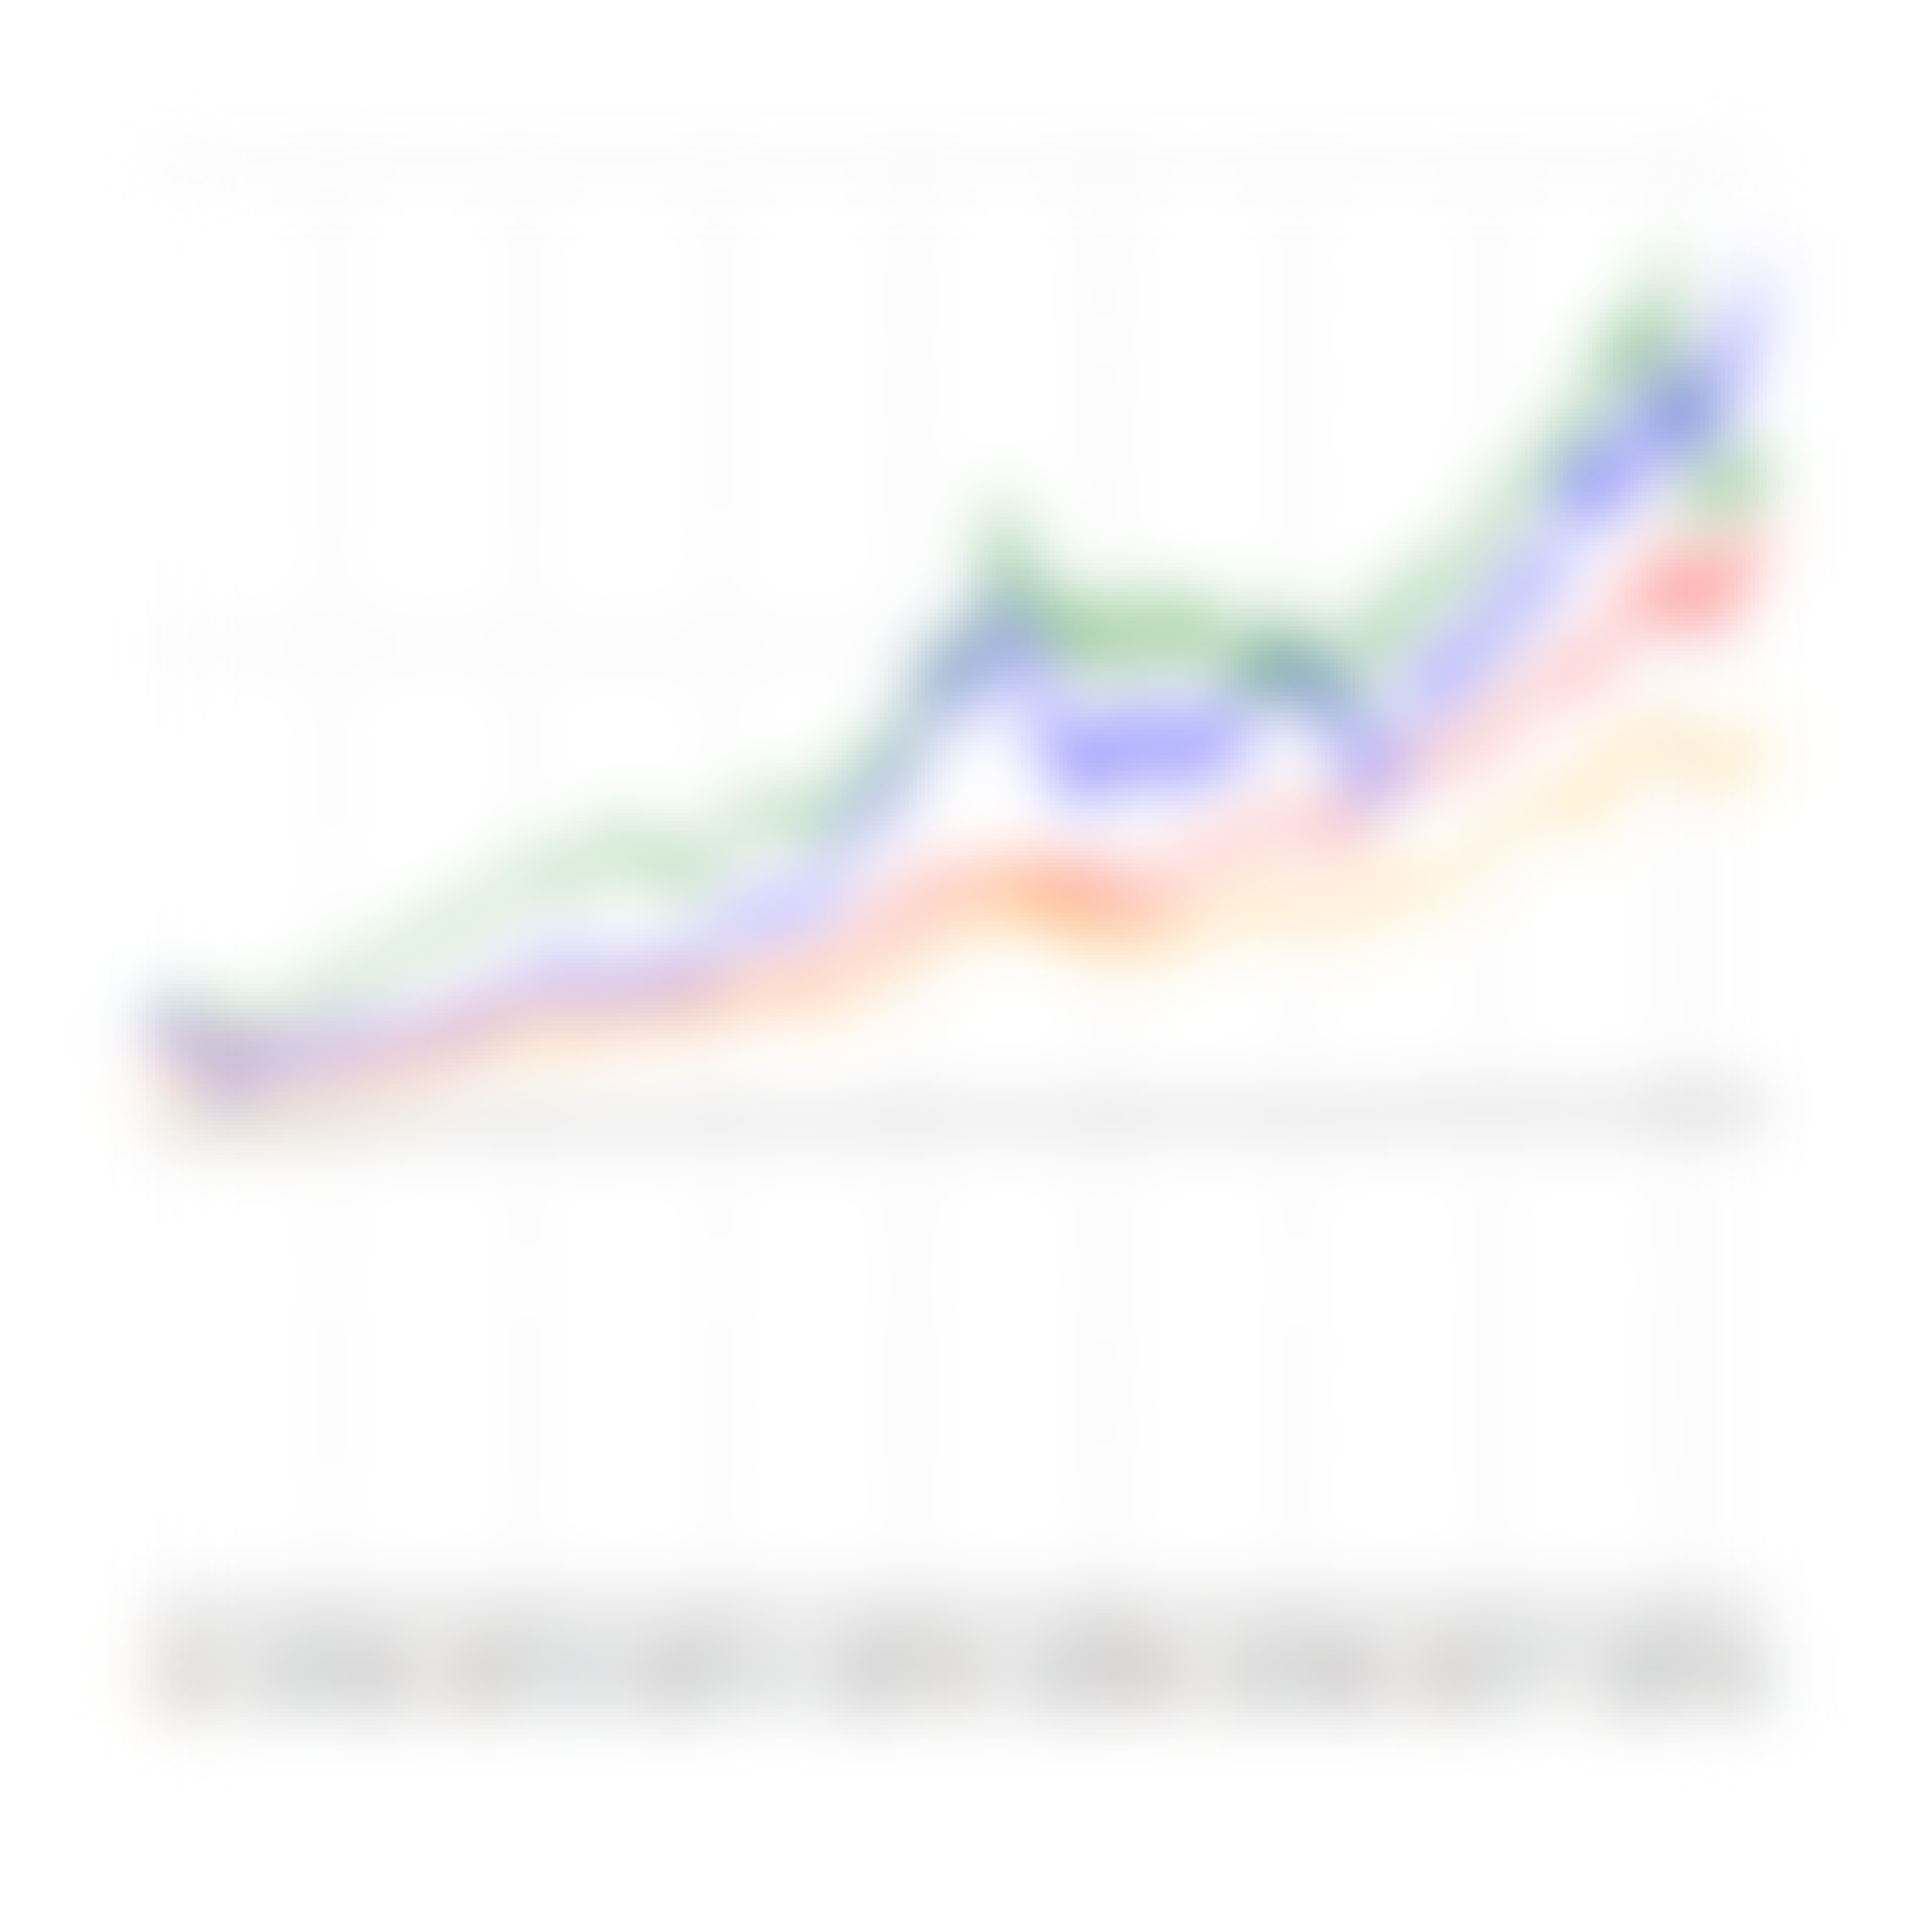
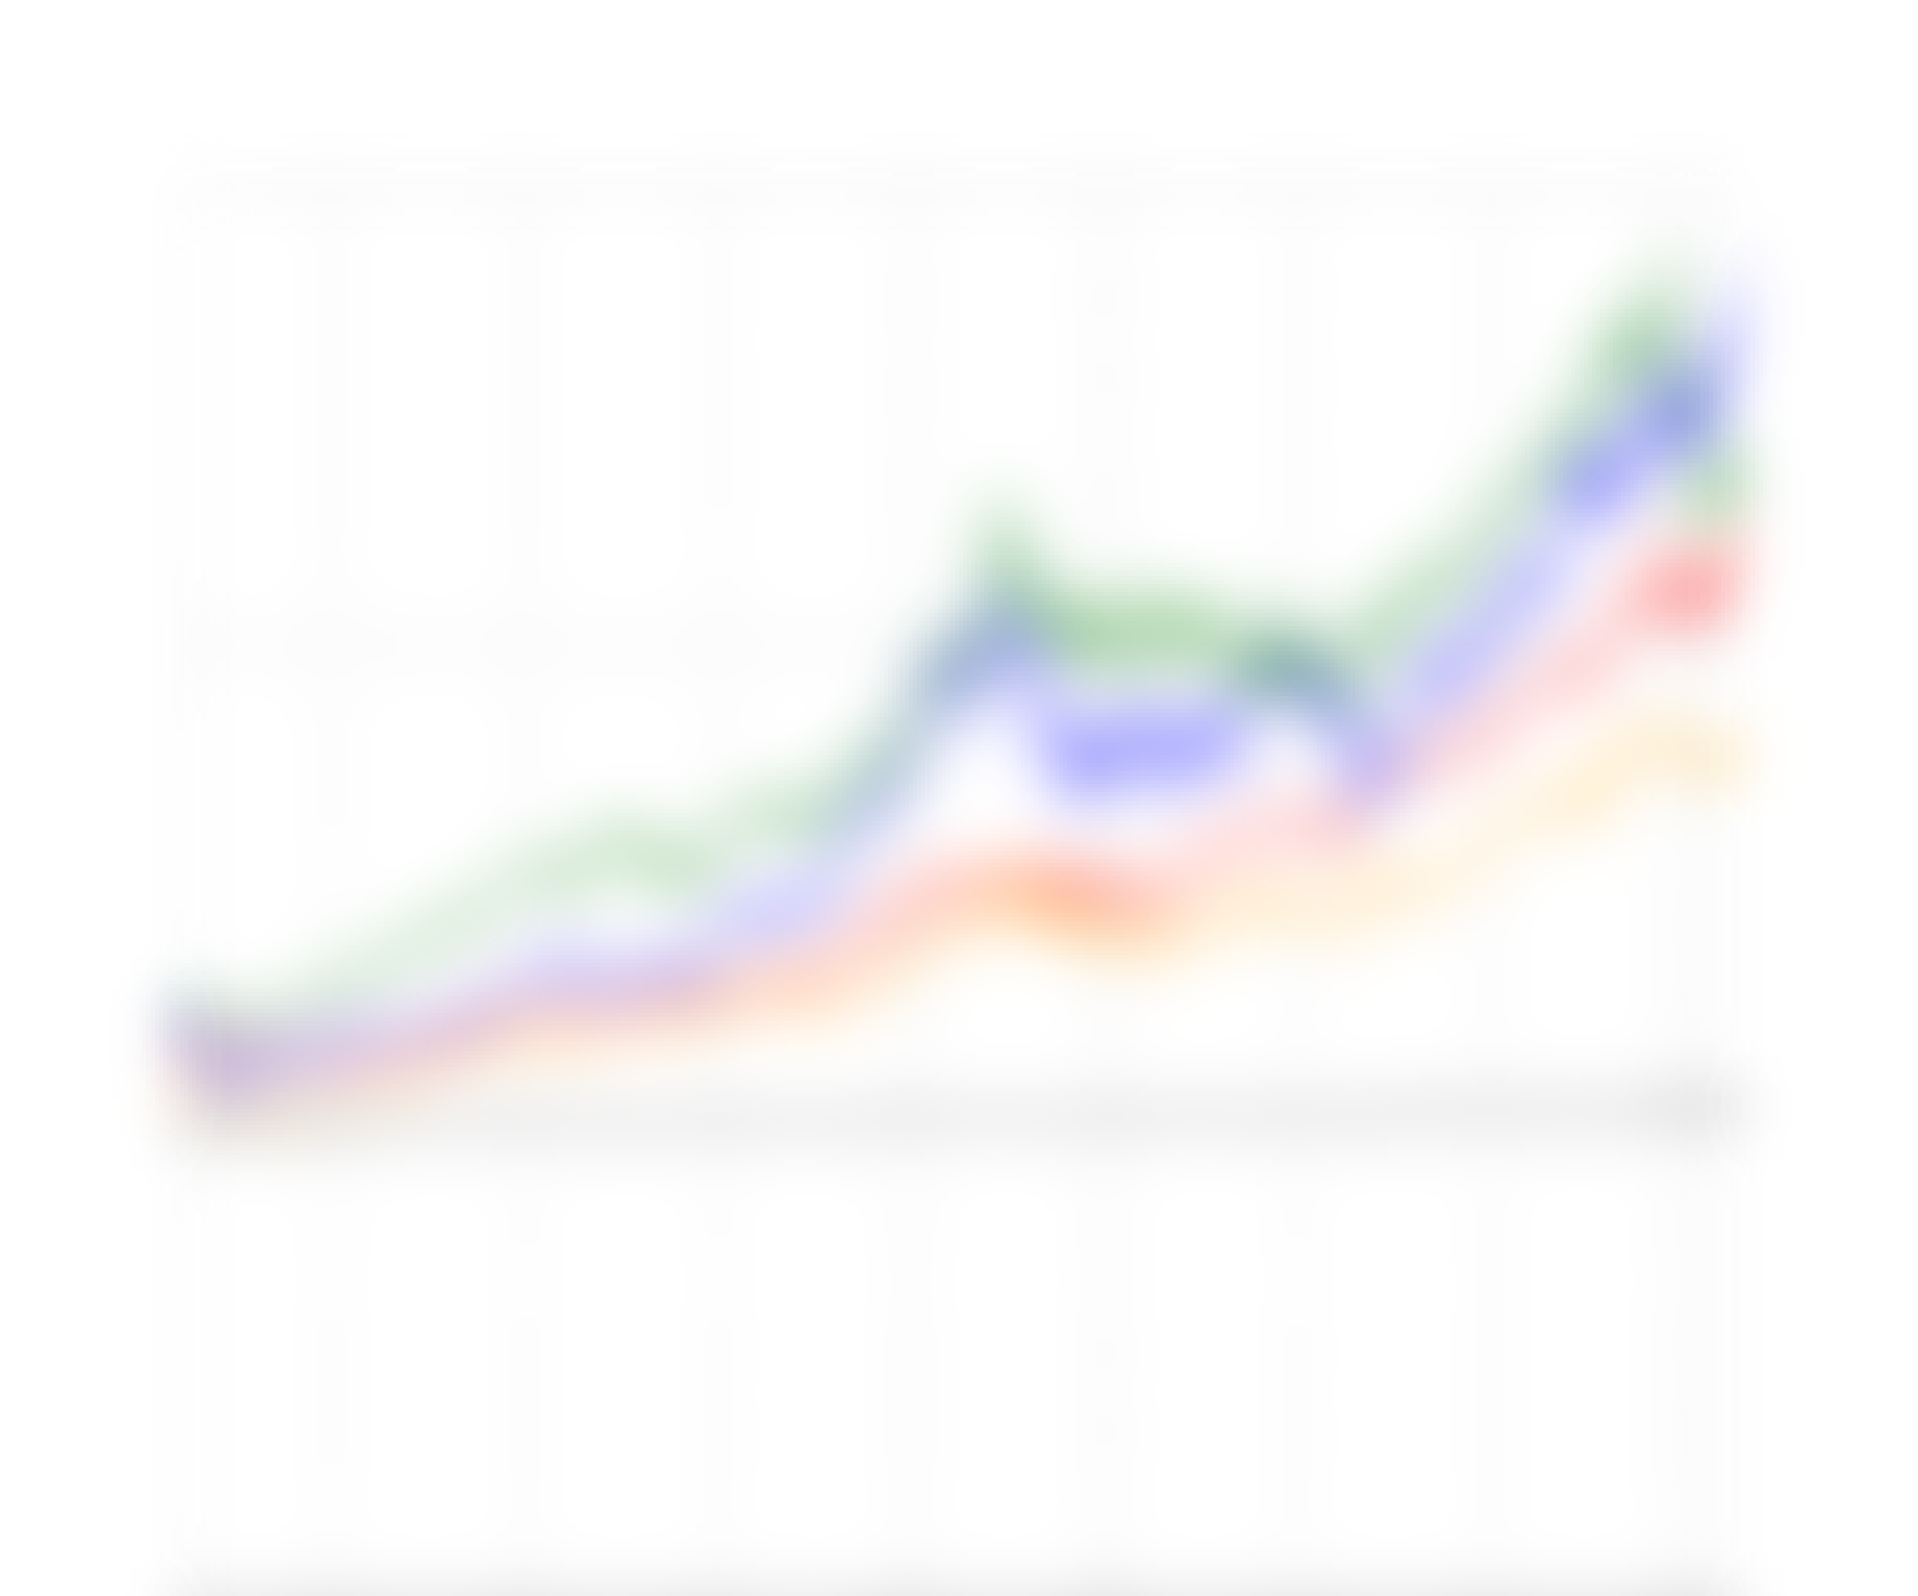
format graphs on hp

Changed region(s): [[0.0615, 0.1535, 0.9228, 0.7368], [0.0923, 0.8289, 0.9228, 0.9211], [0.7998, 0.4298, 0.9228, 0.5219]]

diff --git a/app/ChartSection.tsx b/app/ChartSection.tsx
@@ -158,7 +158,6 @@ export default function ChartSection() {
       {/* Top-left: Cumulative % Change chart */}
       <div className="col-span-1">
         <div className="w-full h-[500px] p-2">
-          <h2 className="mb-2 text-lg font-semibold">Cumulative % Change</h2>
           <ResponsiveContainer width="100%" height="100%">
             <LineChart data={cumData}>
               <CartesianGrid strokeDasharray="3 3" />
@@ -186,13 +185,15 @@ export default function ChartSection() {
               />
             </LineChart>
           </ResponsiveContainer>
+          <h2 className="mt-2 text-sm font-semibold text-black opacity-75 text-center">
+            Cumulative % Change
+          </h2>
         </div>
       </div>
 
       {/* Top-right: Year-over-Year % Change chart */}
       <div className="col-span-1">
         <div className="w-full h-[500px] p-2">
-          <h2 className="mb-2 text-lg font-semibold">Year-over-Year % Change</h2>
           <ResponsiveContainer width="100%" height="100%">
             <LineChart data={yoyData}>
               <CartesianGrid strokeDasharray="3 3" />
@@ -216,6 +217,9 @@ export default function ChartSection() {
               />
             </LineChart>
           </ResponsiveContainer>
+          <h2 className="mt-2 text-sm font-semibold text-black opacity-75 text-center">
+            Year-over-Year % Change
+          </h2>
         </div>
       </div>
 
@@ -236,9 +240,9 @@ export default function ChartSection() {
         }}
       >
         {/* Overlay for contrast */}
-        <div className="w-full h-full flex flex-col items-center justify-center bg-black bg-opacity-50 p-4 rounded">
-          <h3 className="text-xl font-semibold text-white mb-2">More Data</h3>
-          <p className="mb-4 text-center text-white">
+        <div className="w-full h-full flex flex-col items-center justify-center bg-white bg-opacity-50 p-4 rounded">
+          <h3 className="text-xl font-semibold text-black mb-2">More Data</h3>
+          <p className="mb-4 text-center text-black">
             Dive deeper into additional healthcare insurance data and charts.
           </p>
           <Link

diff --git a/app/LifeExpectancyChart.tsx b/app/LifeExpectancyChart.tsx
@@ -1,3 +1,4 @@
+// app/LifeExpectancyChart.tsx
 'use client';
 
 import Papa from 'papaparse';
@@ -38,18 +39,12 @@ export default function LifeExpectancyChart() {
 
   return (
     <div className="w-full h-[500px] p-2">
-      <h2 className="mb-2 text-lg font-semibold">
-        Life Expectancy (From CSV 2009 - 2021)
-      </h2>
       <ResponsiveContainer width="100%" height="100%">
         <LineChart data={chartData}>
           {/* Removed the CartesianGrid to eliminate the background grid */}
           <XAxis dataKey="Year" />
           {/* Force the Y-axis to show a range from 76 to 86 and format ticks to one decimal place */}
-          <YAxis
-            domain={[76, 86]}
-            tickFormatter={(tick) => tick.toFixed(1)}
-          />
+          <YAxis domain={[76, 86]} tickFormatter={(tick) => tick.toFixed(1)} />
           <Tooltip />
           <Legend verticalAlign="top" align="left" />
           <Line type="monotone" dataKey="United Kingdom" name="UK" stroke="#8884d8" dot={false} />
@@ -57,6 +52,9 @@ export default function LifeExpectancyChart() {
           <Line type="monotone" dataKey="Canada" name="Canada" stroke="#ff7300" dot={false} />
         </LineChart>
       </ResponsiveContainer>
+      <h2 className="mt-2 text-sm font-semibold text-black opacity-75 text-center">
+        Life Expectancy
+      </h2>
     </div>
   );
 }
